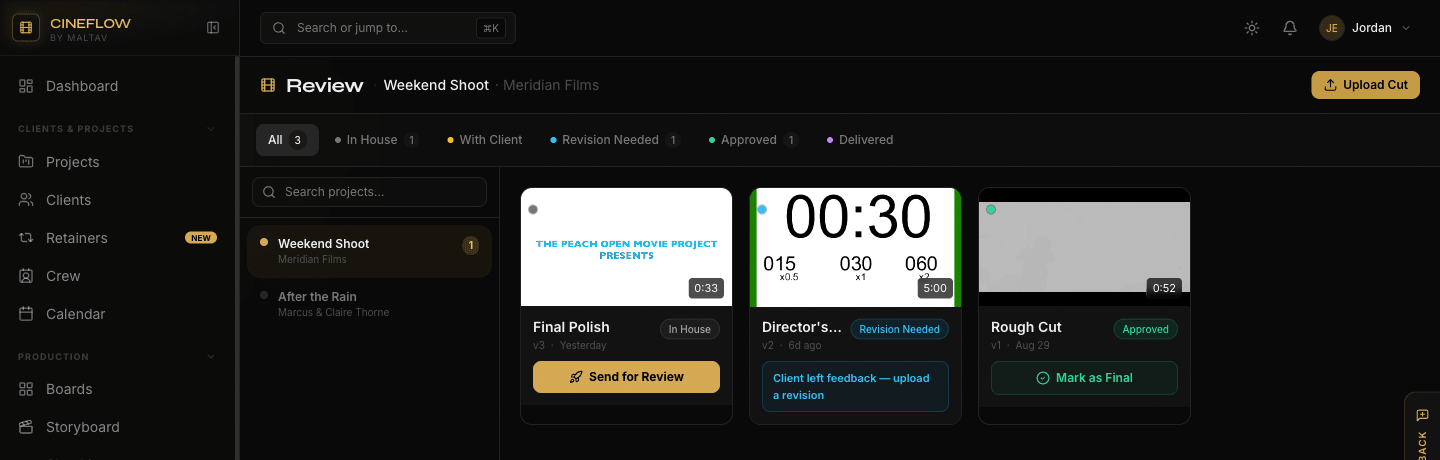
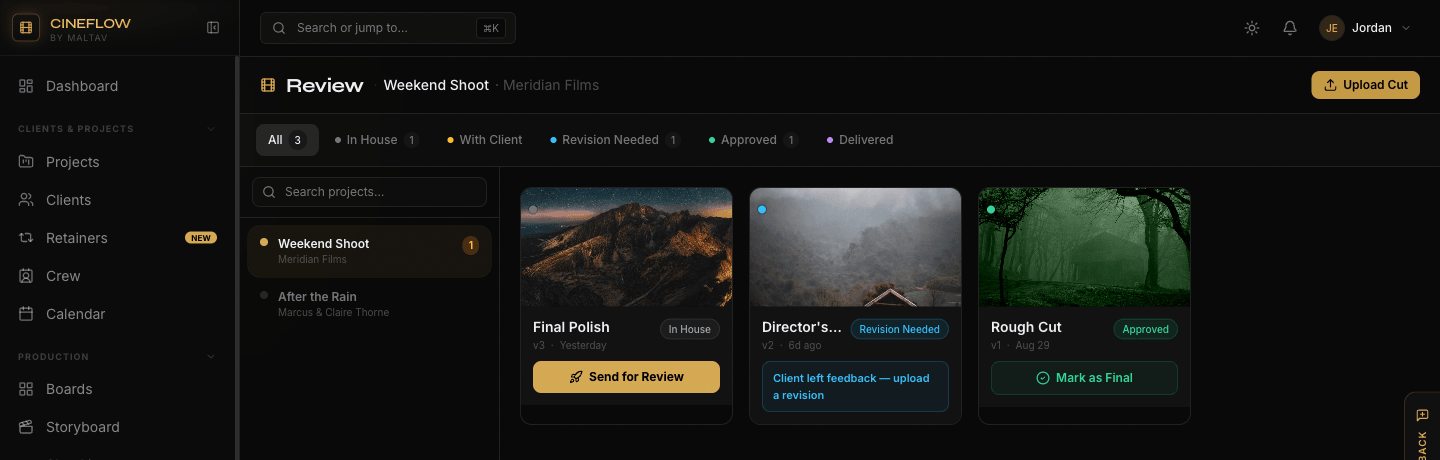
feat(revisions): honor thumbnail_url on review cards; real stills in marketing screenshot
The Review Hub card thumbnail was always a seeked <video> frame, silently
ignoring the existing (but unused) revisions.thumbnail_url column. That's
why the demo revisions rendered whatever their opening video frame happened
to be — an SMPTE-style countdown leader and a film's own title card — rather
than anything representative.

- RevisionCard now renders thumbnail_url as a plain <img> when present,
  falling back to the existing video-frame behavior otherwise.
- Recaptured the Client Portal marketing screenshot with real cinematic
  stills (set via thumbnail_url on the demo project's revisions) instead of
  the placeholder video frames.

Changed region(s): [[0.3438, 0.3957, 0.8438, 0.6696]]

diff --git a/app/(app)/revisions/page.tsx b/app/(app)/revisions/page.tsx
@@ -422,7 +422,14 @@ function RevisionCard({
     }`}>
       {/* Thumbnail */}
       <div className="relative aspect-video overflow-hidden bg-zinc-900/80" onClick={onSelect}>
-        {revision.file_url ? (
+        {revision.thumbnail_url ? (
+          // eslint-disable-next-line @next/next/no-img-element -- arbitrary external URL, not worth a remotePatterns entry
+          <img
+            src={revision.thumbnail_url}
+            alt={revision.title}
+            className="h-full w-full object-cover transition-[filter] duration-300 group-hover:brightness-125"
+          />
+        ) : revision.file_url ? (
           <video
             ref={thumbRef}
             src={revision.file_url}
